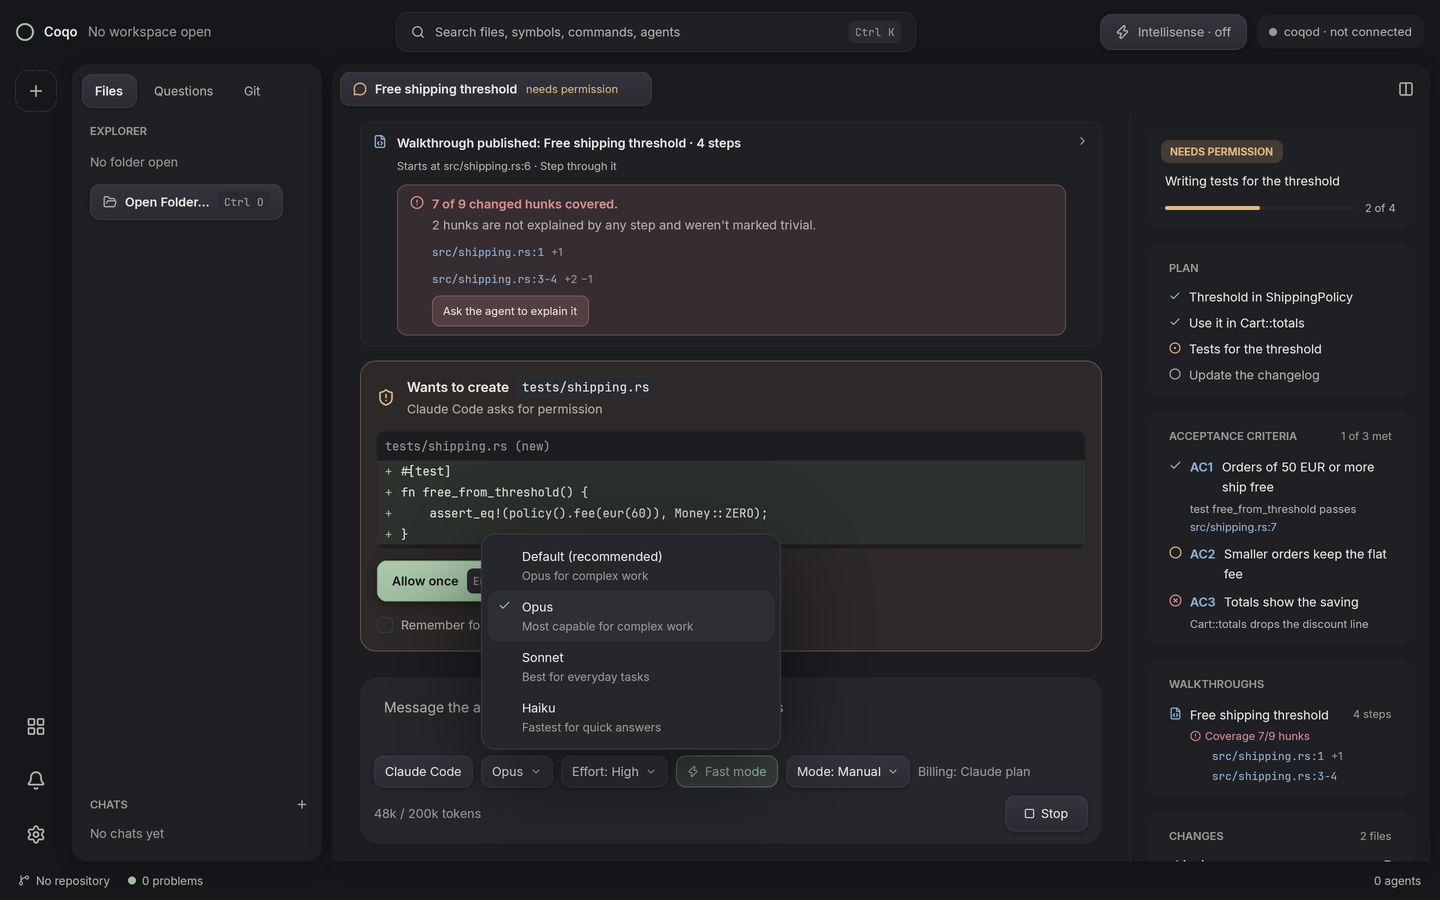
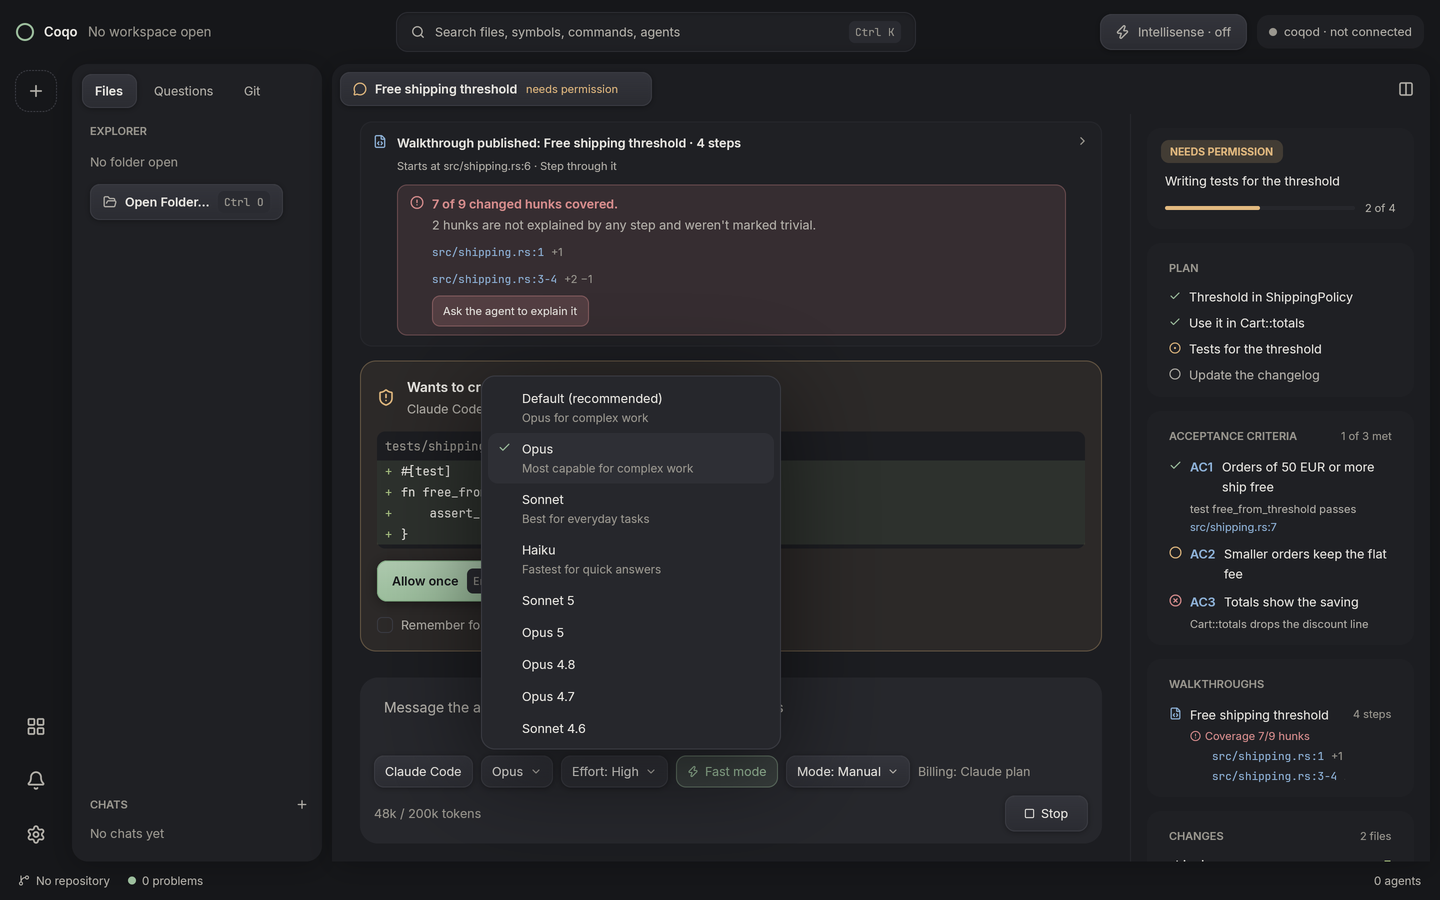
fix(chat): long dropdowns scroll and keep the choice in view (#179)
Claude's adapter offers 14 models, which ran the dropdown off the top of
the window. The list stops at 360 px and scrolls to the keyboard's choice.

Claude-Session: https://claude.ai/code/session_01Nk8QCNkZGrM4swHfMbtq5Z

Changed region(s): [[0.3125, 0.4044, 0.5312, 0.84]]

diff --git a/crates/coqo/src/chat/tab/composer.rs b/crates/coqo/src/chat/tab/composer.rs
@@ -807,6 +807,7 @@ impl ChatTab {
                     let step = if key == PromptKey::Up { len - 1 } else { 1 };
                     p.set_selected((p.selected() + step) % len);
                 }
+                self.reveal_selected();
                 cx.notify();
             }
             PromptKey::Accept | PromptKey::Complete => {
@@ -1157,10 +1158,37 @@ impl ChatTab {
     fn toggle_menu(&mut self, menu: Popover, window: &mut Window, cx: &mut Context<Self>) {
         let same = self.popover.as_ref().is_some_and(|p| p.same_menu(&menu));
         self.popover = (!same).then_some(menu);
+        self.reveal_selected();
         self.sync_capture(cx);
         let focus = self.composer.read(cx).focus_handle(cx);
         window.focus(&focus, cx);
         cx.notify();
+    }
+
+    /// Scroll an open dropdown so its selected row shows.
+    fn reveal_selected(&self) {
+        let Some(menu) = self.popover.as_ref().filter(|p| p.is_menu()) else {
+            return;
+        };
+        let selected = menu.selected();
+        // A config option's group labels are rows of the list too.
+        let labels = match menu {
+            Popover::Config { id, .. } => {
+                let entries = config_entries(&self.transcript.config_options, id);
+                let mut group = None;
+                entries
+                    .iter()
+                    .take(selected + 1)
+                    .filter(|e| {
+                        let new = e.group.is_some() && e.group != group;
+                        group.clone_from(&e.group);
+                        new
+                    })
+                    .count()
+            }
+            _ => 0,
+        };
+        self.menu_scroll.scroll_to_item(selected + labels);
     }
 }
 
@@ -1403,7 +1431,15 @@ impl ChatTab {
                     this.close_popover(false, cx);
                 }),
             );
-        let mut list = div().flex().flex_col().px(px(6.));
+        // At most about seven rows with descriptions, then it scrolls.
+        let mut list = div()
+            .id("chat-menu-list")
+            .flex()
+            .flex_col()
+            .px(px(6.))
+            .max_h(px(360.))
+            .overflow_y_scroll()
+            .track_scroll(&self.menu_scroll);
         let row = |id: String,
                    ix: usize,
                    current: bool,

diff --git a/crates/coqo/src/chat/tab.rs b/crates/coqo/src/chat/tab.rs
@@ -89,6 +89,8 @@ pub struct ChatTab {
     dismissed: Option<usize>,
     /// Where the click that closed a dropdown was, so it doesn't reopen it.
     closed_by: Option<coqo_ui::gpui::Point<coqo_ui::gpui::Pixels>>,
+    /// Scrolls a long dropdown (Claude offers a dozen models).
+    menu_scroll: coqo_ui::gpui::ScrollHandle,
     /// The workspace's files, for @-mentions.
     files: composer::FileIndex,
     /// Mentioned files by URI, for embedding their contents.
@@ -167,6 +169,7 @@ impl ChatTab {
             popover: None,
             dismissed: None,
             closed_by: None,
+            menu_scroll: coqo_ui::gpui::ScrollHandle::new(),
             files: composer::FileIndex::default(),
             targets: HashMap::new(),
             history: None,

diff --git a/crates/coqo/src/chat/tests.rs b/crates/coqo/src/chat/tests.rs
@@ -1509,6 +1509,12 @@ fn screenshot_config_options() -> Vec<SessionConfigOption> {
                 ("opus", "Opus", "Most capable for complex work"),
                 ("sonnet", "Sonnet", "Best for everyday tasks"),
                 ("haiku", "Haiku", "Fastest for quick answers"),
+                // As long as Claude's list: the card scrolls.
+                ("claude-sonnet-5", "Sonnet 5", ""),
+                ("claude-opus-5", "Opus 5", ""),
+                ("claude-opus-4-8", "Opus 4.8", ""),
+                ("claude-opus-4-7", "Opus 4.7", ""),
+                ("claude-sonnet-4-6", "Sonnet 4.6", ""),
             ],
         ),
         select(

diff --git a/docs/design/chat.md b/docs/design/chat.md
@@ -52,7 +52,7 @@ A `surface` field with an 18 px radius (`chat/tab/composer.rs`). **Enter** sends
 ![The settings chips with the model dropdown open, dark](screenshots/settings-dark.png)
 - **History.** Up in an empty composer recalls the last prompt you sent in this chat, with its mention chips; Up and Down step through earlier ones, and Down past the newest empties the field. Editing the recalled text ends the recall.
 
-Popovers and dropdowns share one card: `surface`, a `border_strong` hairline, a 14 px radius and the deep drop shadow of the bolt popover (`widgets::popover`). The selected row is `surface_selected` with a 10 px radius; a hint line in `text_subtle` 11 px closes the card.
+Popovers and dropdowns share one card: `surface`, a `border_strong` hairline, a 14 px radius and the deep drop shadow of the bolt popover (`widgets::popover`). The selected row is `surface_selected` with a 10 px radius; a hint line in `text_subtle` 11 px closes the card. A dropdown's list stops growing at 360 px and scrolls (Claude offers a dozen models), keeping the keyboard's choice in view.
 
 When the provider needs a login, a sand banner says how to sign in to the agent's own tool (for Claude Code: run `claude` in a terminal and use `/login`). Coqo never handles the login.
 
